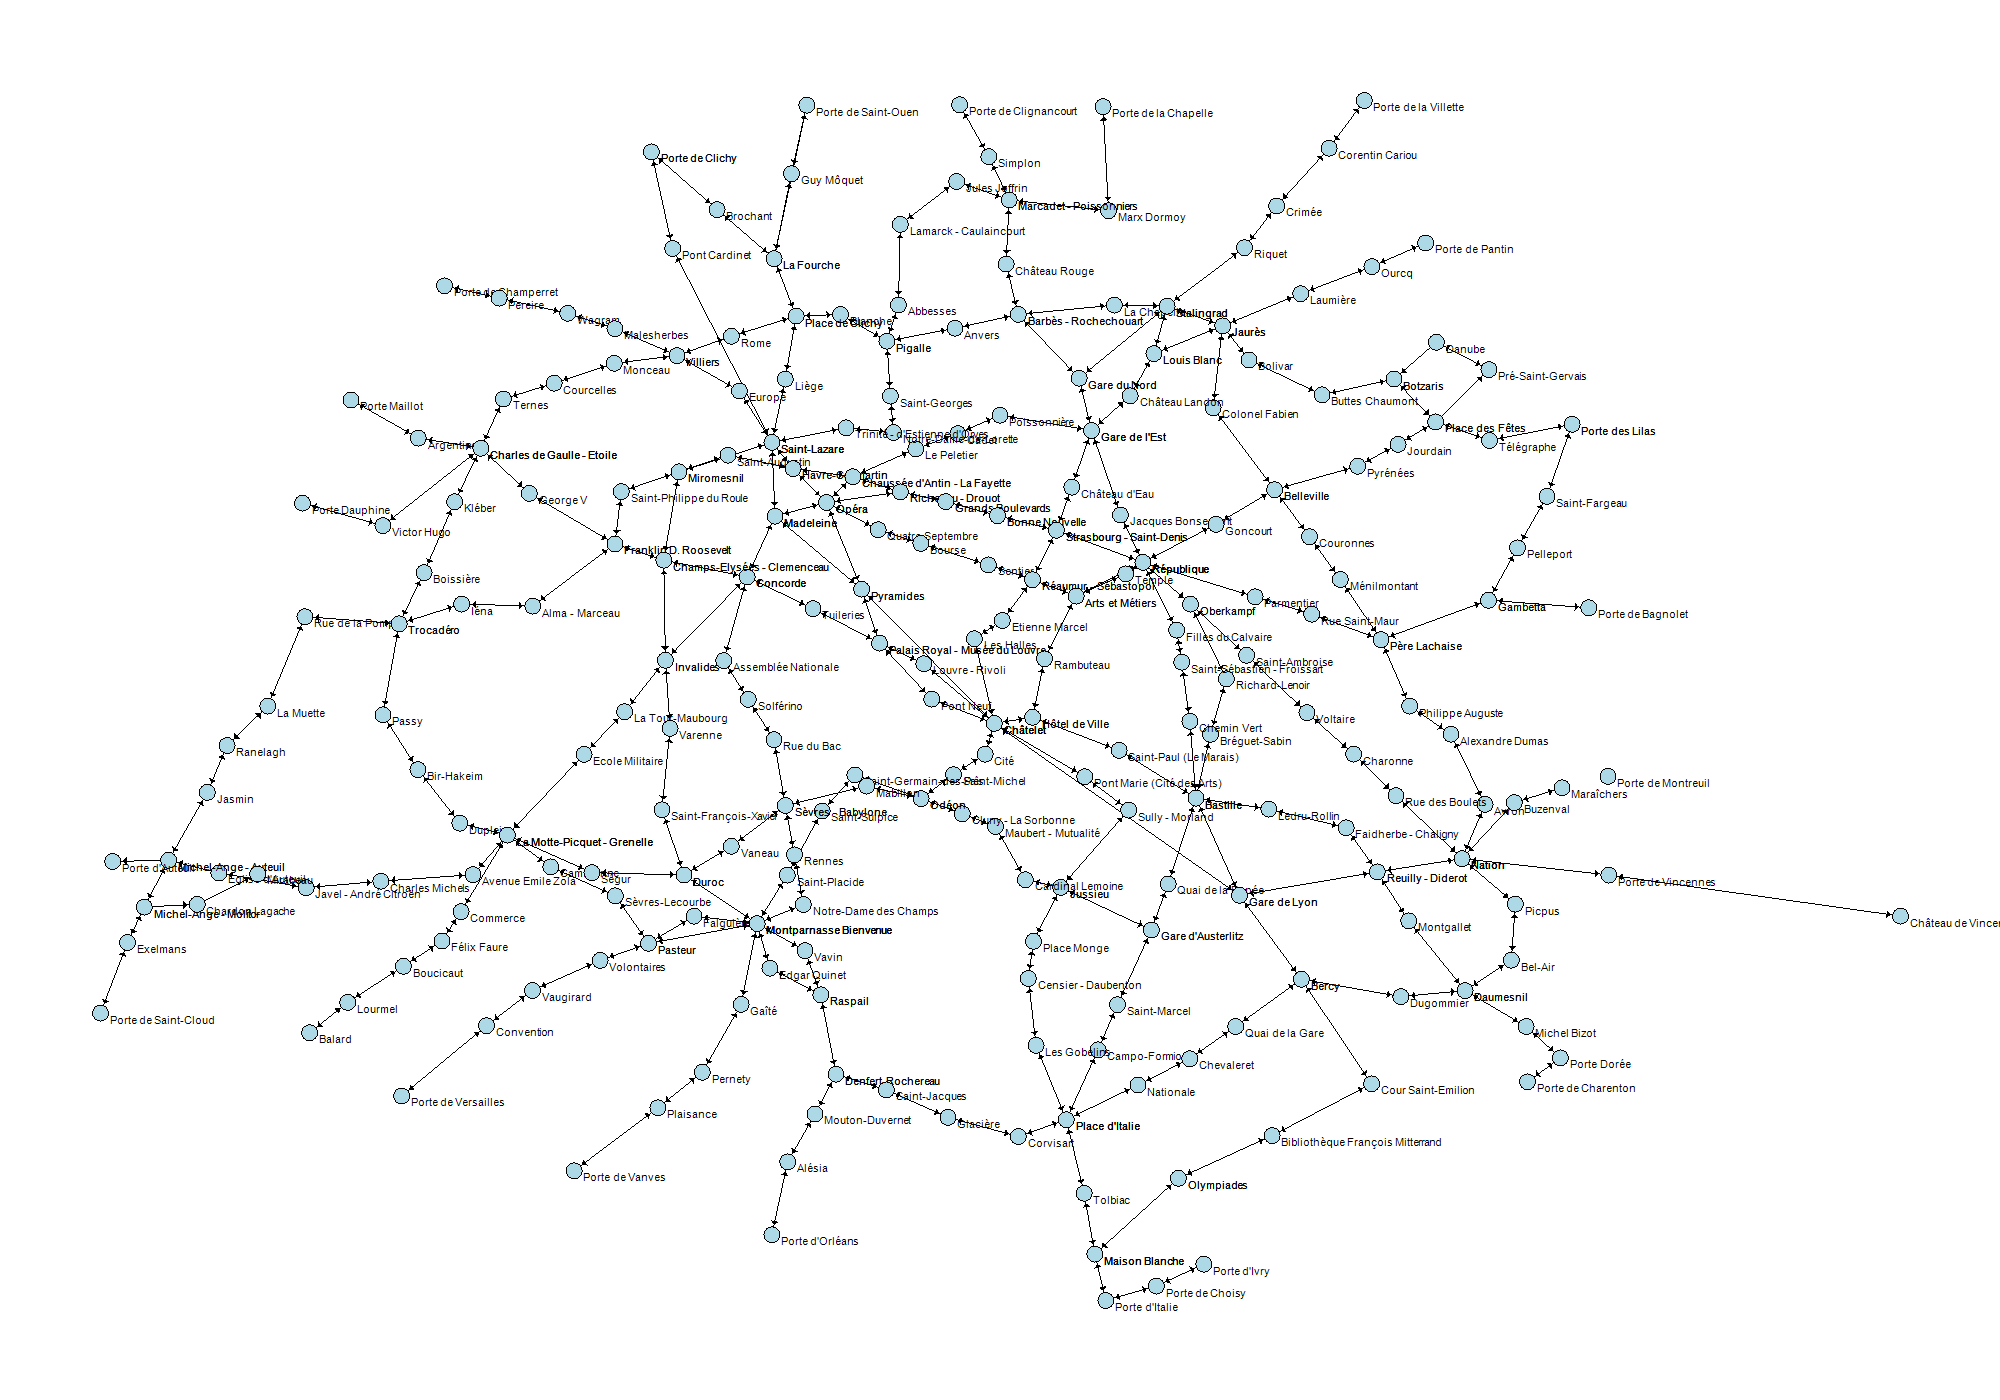
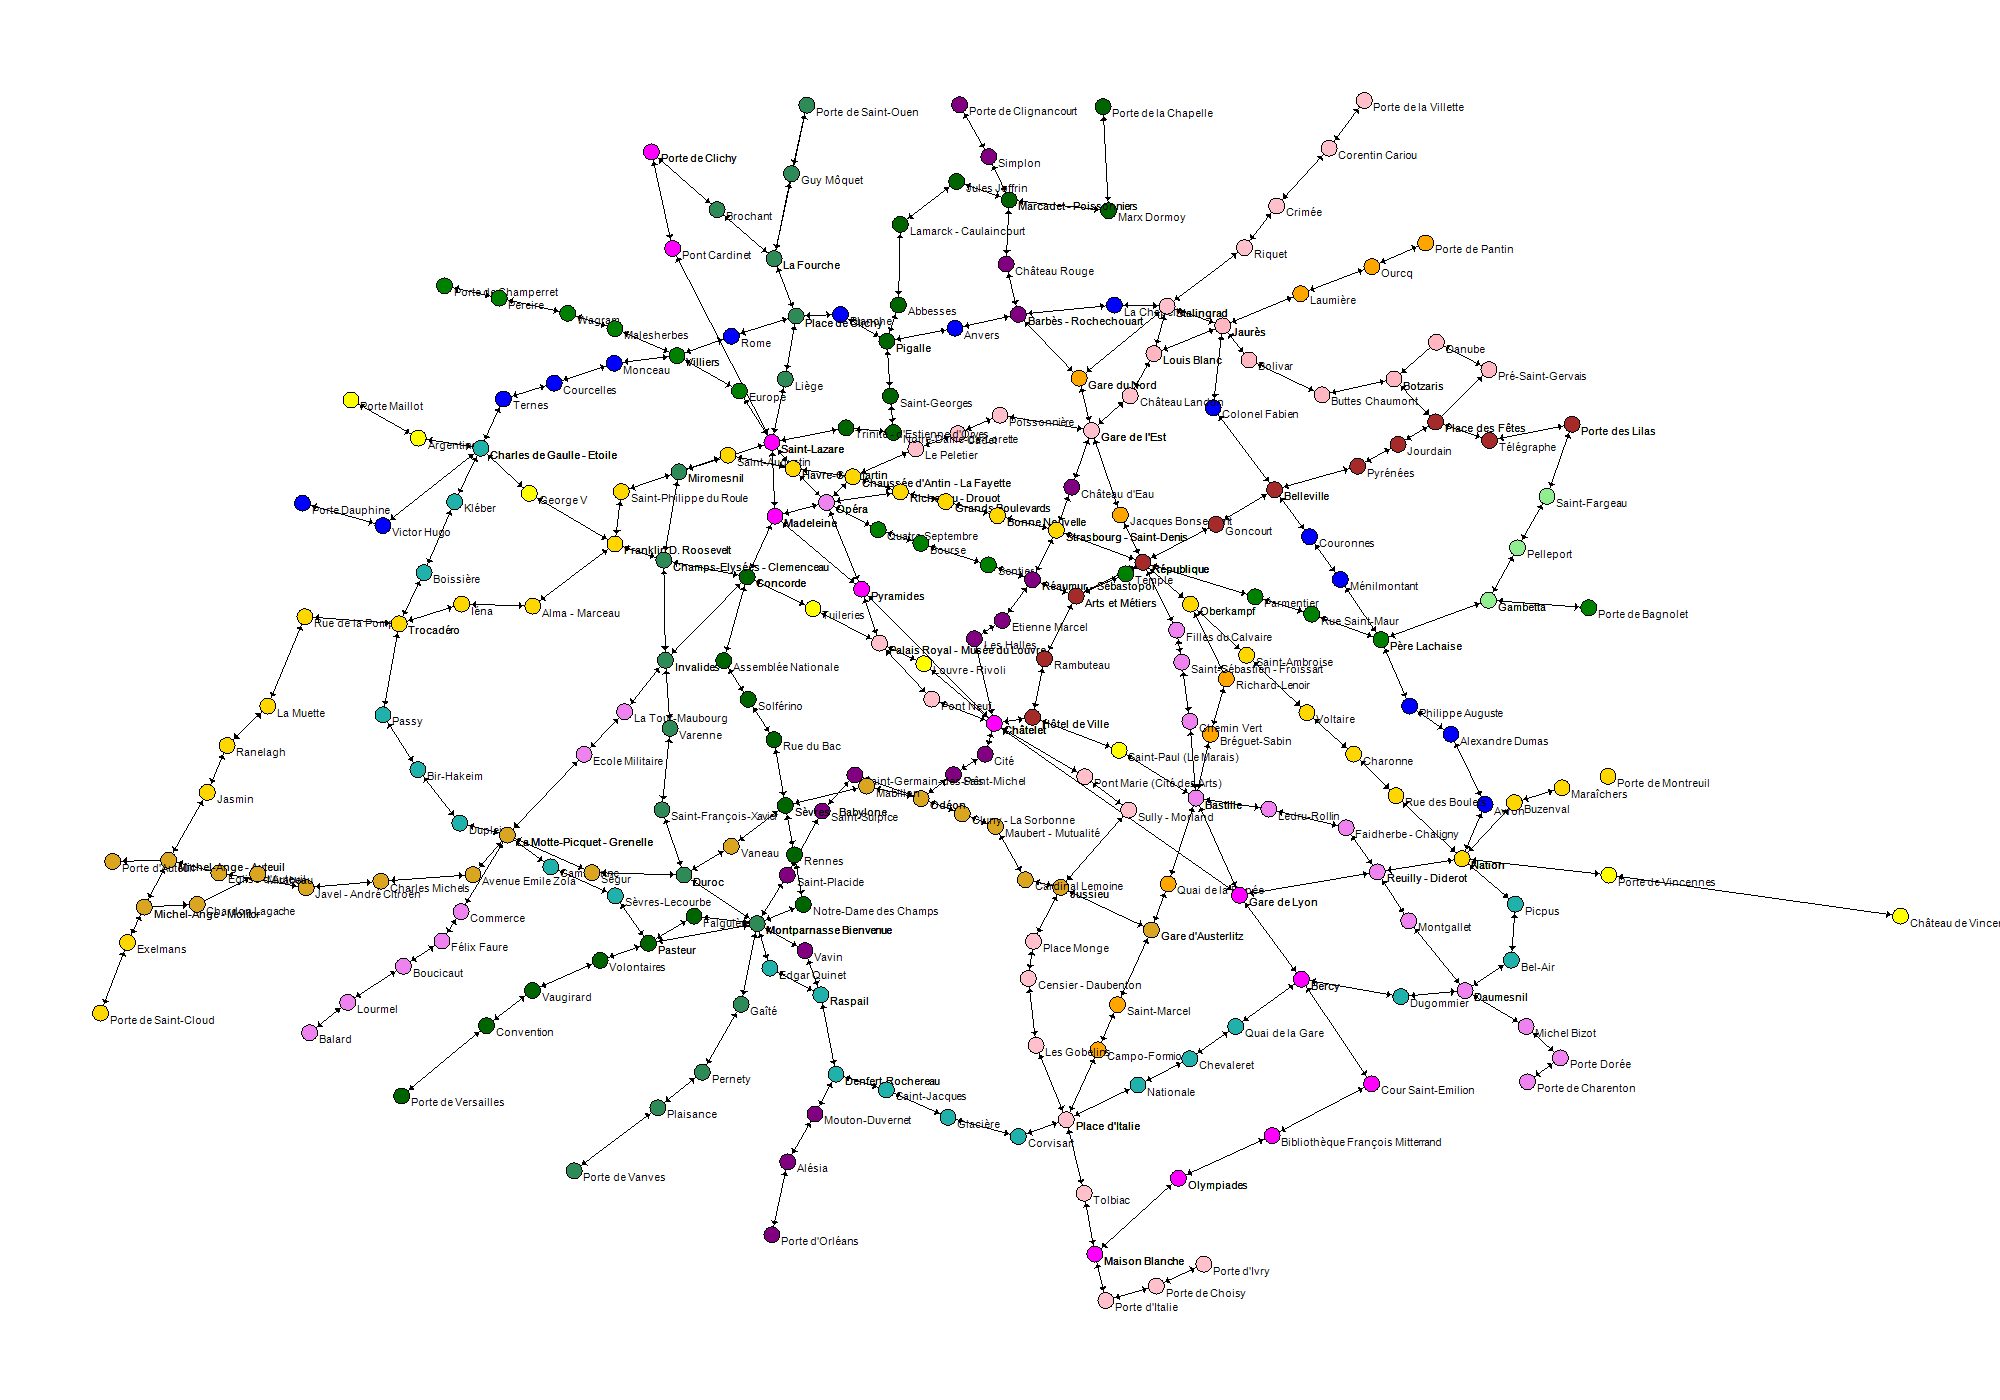
Coloration des graphes en fonction des lignes

diff --git a/PSI_RENDU1/GrapheVisualisation.cs b/PSI_RENDU1/GrapheVisualisation.cs
@@ -79,12 +79,16 @@ namespace PSI_RENDU1
             }
 
             foreach (var noeud in graphe.Noeuds.Values)
-            {
-                PointF p = positions[noeud.Id];
-                g.FillEllipse(noeudBrush, p.X - rayon, p.Y - rayon, 2 * rayon, 2 * rayon);
-                g.DrawEllipse(Pens.Black, p.X - rayon, p.Y - rayon, 2 * rayon, 2 * rayon);
-                g.DrawString(noeud.Nom, font, texteBrush, p.X + rayon, p.Y);
-            }
+{
+    PointF p = positions[noeud.Id];
+    Brush couleurNoeud = GetCouleurPourLigne(noeud.NumLigne);
+
+    Console.WriteLine($"Station: {noeud.Nom} - Ligne: {noeud.NumLigne} - Couleur: {couleurNoeud}");
+
+    g.FillEllipse(couleurNoeud, p.X - rayon, p.Y - rayon, 2 * rayon, 2 * rayon);
+    g.DrawEllipse(Pens.Black, p.X - rayon, p.Y - rayon, 2 * rayon, 2 * rayon);
+    g.DrawString(noeud.Nom, font, texteBrush, p.X + rayon, p.Y);
+}
 
             bitmap.Save(outputPath);
             bitmap.Dispose();
@@ -102,6 +106,32 @@ namespace PSI_RENDU1
             Console.WriteLine($"❌ Erreur lors de la génération du graphe : {ex.Message}");
         }
     }
+
+    private static Brush GetCouleurPourLigne(string ligne)
+{
+    switch (ligne)
+    {
+        case "1": return Brushes.Yellow;
+        case "2": return Brushes.Blue;
+        case "3": return Brushes.Green;
+        case "3bis": return Brushes.LightGreen;
+        case "4": return Brushes.Purple;
+        case "5": return Brushes.Orange;
+        case "6": return Brushes.LightSeaGreen;
+        case "7": return Brushes.Pink;
+        case "7bis": return Brushes.LightPink;
+        case "8": return Brushes.Violet;
+        case "9": return Brushes.Gold;
+        case "10": return Brushes.Goldenrod;
+        case "11": return Brushes.Brown;
+        case "12": return Brushes.DarkGreen;
+        case "13": return Brushes.SeaGreen;
+        case "14": return Brushes.Magenta;
+        default: return Brushes.Gray;
+    }
 }
+}
+
+
 
 }

diff --git a/PSI_RENDU1/LecteurExcel.cs b/PSI_RENDU1/LecteurExcel.cs
@@ -7,9 +7,9 @@ using System.Globalization;
 namespace PSI_RENDU1{
 public static class LecteurExcel
 {
-    public static List<(int id, string nom, double longitude, double latitude)> LireNoeuds(string cheminFichier)
+    public static List<(int id, string nom, double longitude, double latitude, string ligne)> LireNoeuds(string cheminFichier)
 {
-    var resultats = new List<(int, string, double, double)>();
+    var resultats = new List<(int, string, double, double, string)>();
 
     using (var workbook = new XLWorkbook(cheminFichier))
     {
@@ -20,15 +20,16 @@ public static class LecteurExcel
             try
             {
                 if (!int.TryParse(ligne.Cell(1).GetString().Trim(), out int id)) continue;
-                string nom = ligne.Cell(3).GetString().Trim();
 
+                string numLigne = ligne.Cell(2).GetString().Trim();
+                string nom = ligne.Cell(3).GetString().Trim();      
                 string longStr = ligne.Cell(4).GetString().Trim();
                 string latStr = ligne.Cell(5).GetString().Trim();
 
                 if (!double.TryParse(longStr, NumberStyles.Float, CultureInfo.InvariantCulture, out double longitude)) continue;
                 if (!double.TryParse(latStr, NumberStyles.Float, CultureInfo.InvariantCulture, out double latitude)) continue;
 
-                resultats.Add((id, nom, longitude, latitude));
+                resultats.Add((id, nom, longitude, latitude, numLigne));
             }
             catch (Exception ex)
             {
@@ -39,6 +40,7 @@ public static class LecteurExcel
 
     return resultats;
 }
+
 
     public static List<(int, int, double, bool)> LireArcs(string cheminFichier)
 {

diff --git a/PSI_RENDU1/Graphe.cs b/PSI_RENDU1/Graphe.cs
@@ -28,14 +28,14 @@ namespace PSI_RENDU1
         public List<Lien<T>> Liens => liens;
         public bool EstOriente { get; set; } = true;
 
-        public void AjouterNoeud(T id, string nom = "", double longitude = 0, double latitude = 0)
+        public void AjouterNoeud(T id, string nom = "", double longitude = 0, double latitude = 0, string numLigne="")
         {
             if (!noeuds.ContainsKey(id))
-                noeuds[id] = new Noeud<T>(id, nom, longitude, latitude);
+                noeuds[id] = new Noeud<T>(id, nom, longitude, latitude,numLigne);
         }
 
 
-        public void AjouterLien(T idSource, T idDestination, double poids)
+        public void AjouterLien(T idSource, T idDestination, double poids)  
 {
     if (!noeuds.ContainsKey(idSource) || !noeuds.ContainsKey(idDestination))
     {
@@ -45,10 +45,6 @@ namespace PSI_RENDU1
 
     var source = noeuds[idSource];
     var destination = noeuds[idDestination];
-
-    // Vérifier si le lien existe déjà pour éviter les doublons
-    if (source.Liens.Any(l => l.Destination.Id.Equals(destination.Id)))
-        return;
 
     var lien = new Lien<T>(source, destination, poids);
     source.Liens.Add(lien);
@@ -323,7 +319,7 @@ namespace PSI_RENDU1
     while (priorityQueue.Count > 0)
     {
         var (currentDistance, currentNode) = priorityQueue.Min;
-        priorityQueue.Remove(priorityQueue.Min);
+        priorityQueue.Remove(priorityQueue.Min); 
 
         foreach (var lien in noeuds[currentNode].Liens)
         {

diff --git a/PSI_RENDU1/Noeud.cs b/PSI_RENDU1/Noeud.cs
@@ -14,13 +14,16 @@ namespace PSI_RENDU1
     public double Latitude { get; }
     public List<Lien<T>> Liens { get; }
 
-    public Noeud(T id, string nom = "", double longitude = 0, double latitude = 0)
+    public string NumLigne { get; }
+
+    public Noeud(T id, string nom = "", double longitude = 0, double latitude = 0, string numLigne = "")
     {
         Id = id;
         Nom = nom;
         Longitude = longitude;
         Latitude = latitude;
         Liens = new List<Lien<T>>();
+        NumLigne = numLigne;
     }
 
     public override string ToString() => Id.ToString();

diff --git a/PSI_RENDU1/Program.cs b/PSI_RENDU1/Program.cs
@@ -27,9 +27,9 @@
 
         // Charger les nœuds depuis Excel
         var donneesNoeuds = LecteurExcel.LireNoeuds(cheminExcel);
-        foreach (var (id, nom, longitude, latitude) in donneesNoeuds)
+        foreach (var (id, nom, longitude, latitude,NumLigne) in donneesNoeuds)
         {
-            graphe.AjouterNoeud(id, nom, longitude, latitude);
+            graphe.AjouterNoeud(id, nom, longitude, latitude, NumLigne);
         }
 
         // Relier automatiquement les stations avec le même nom (ex : République)
